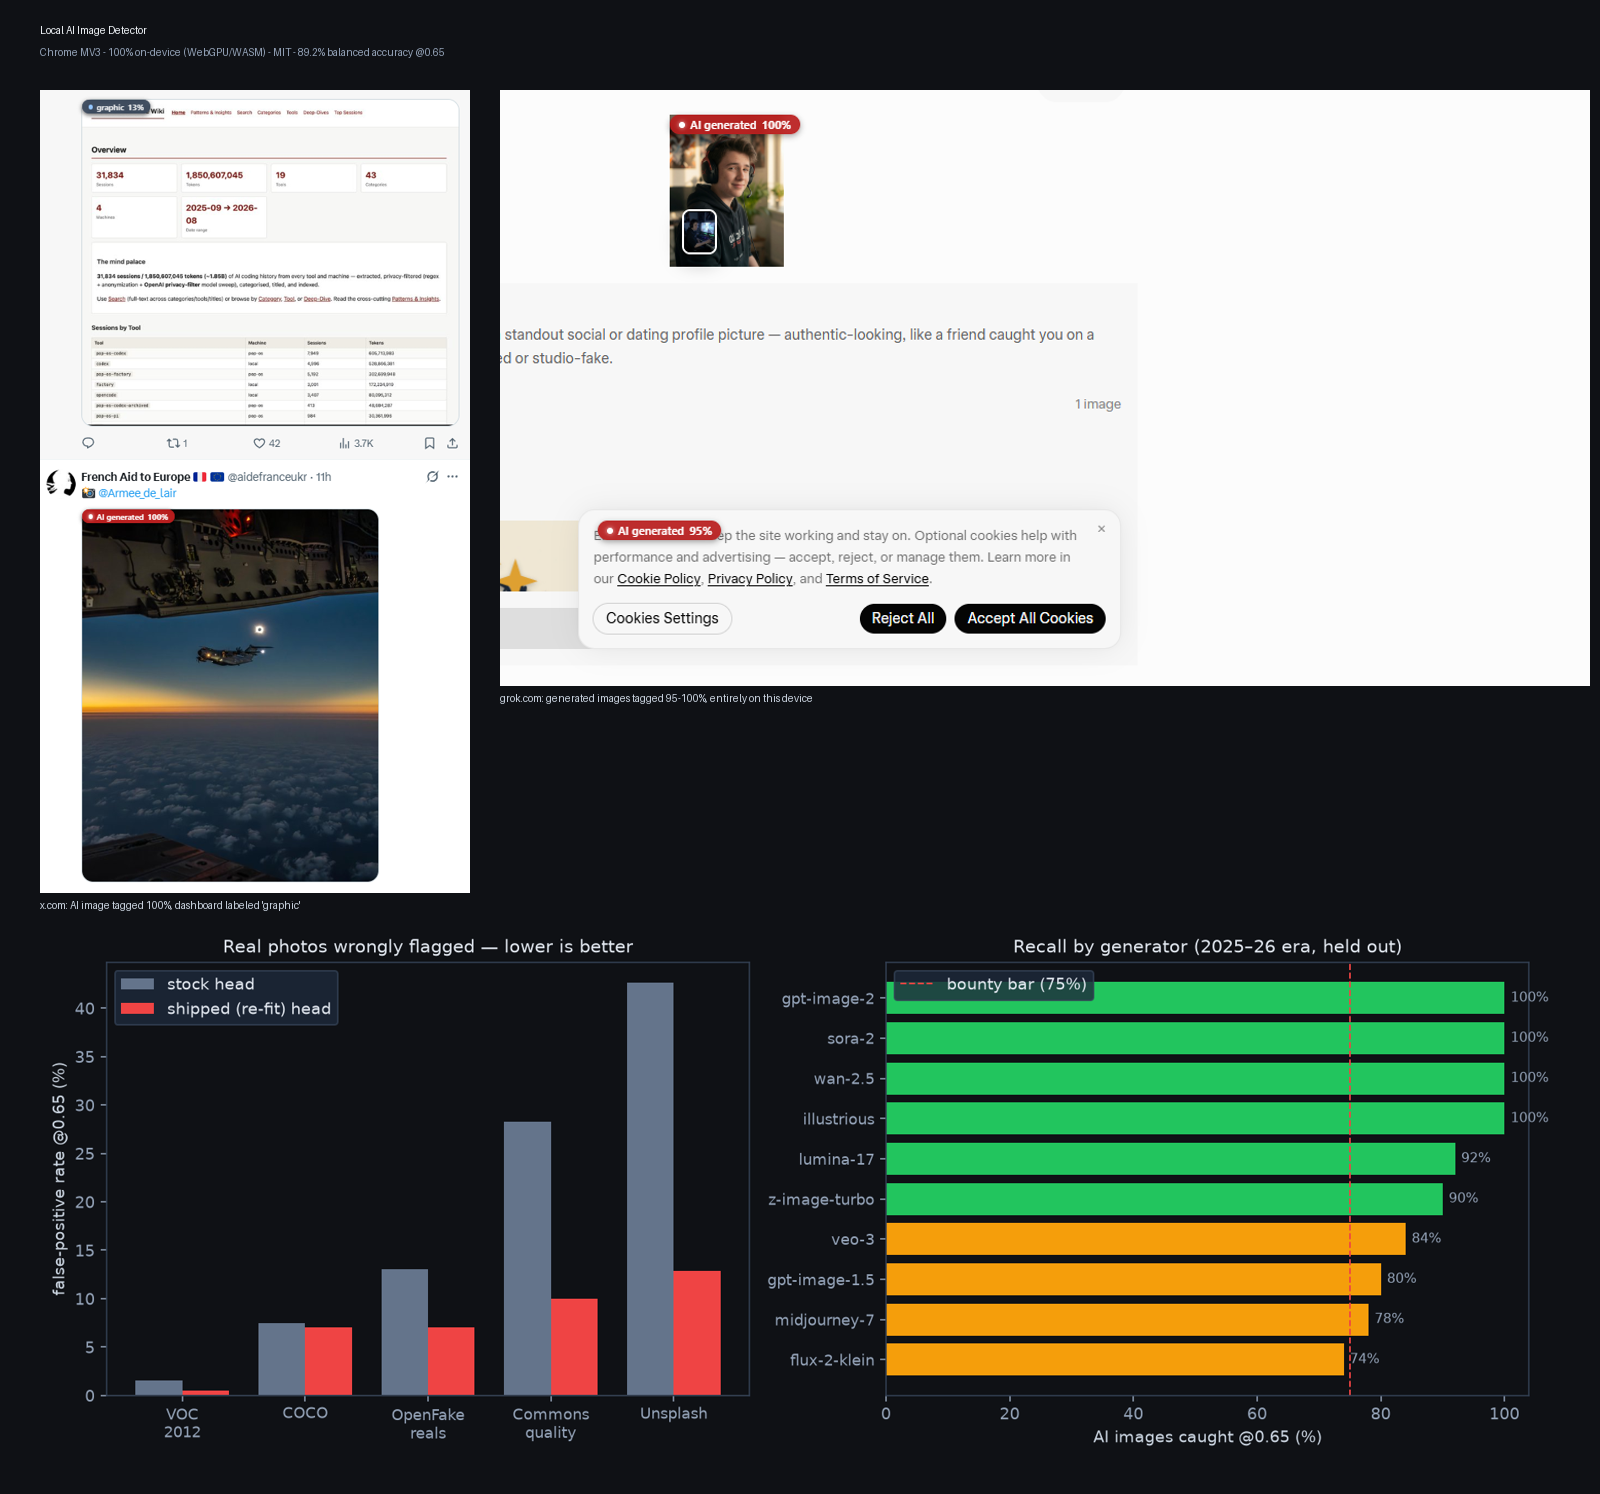
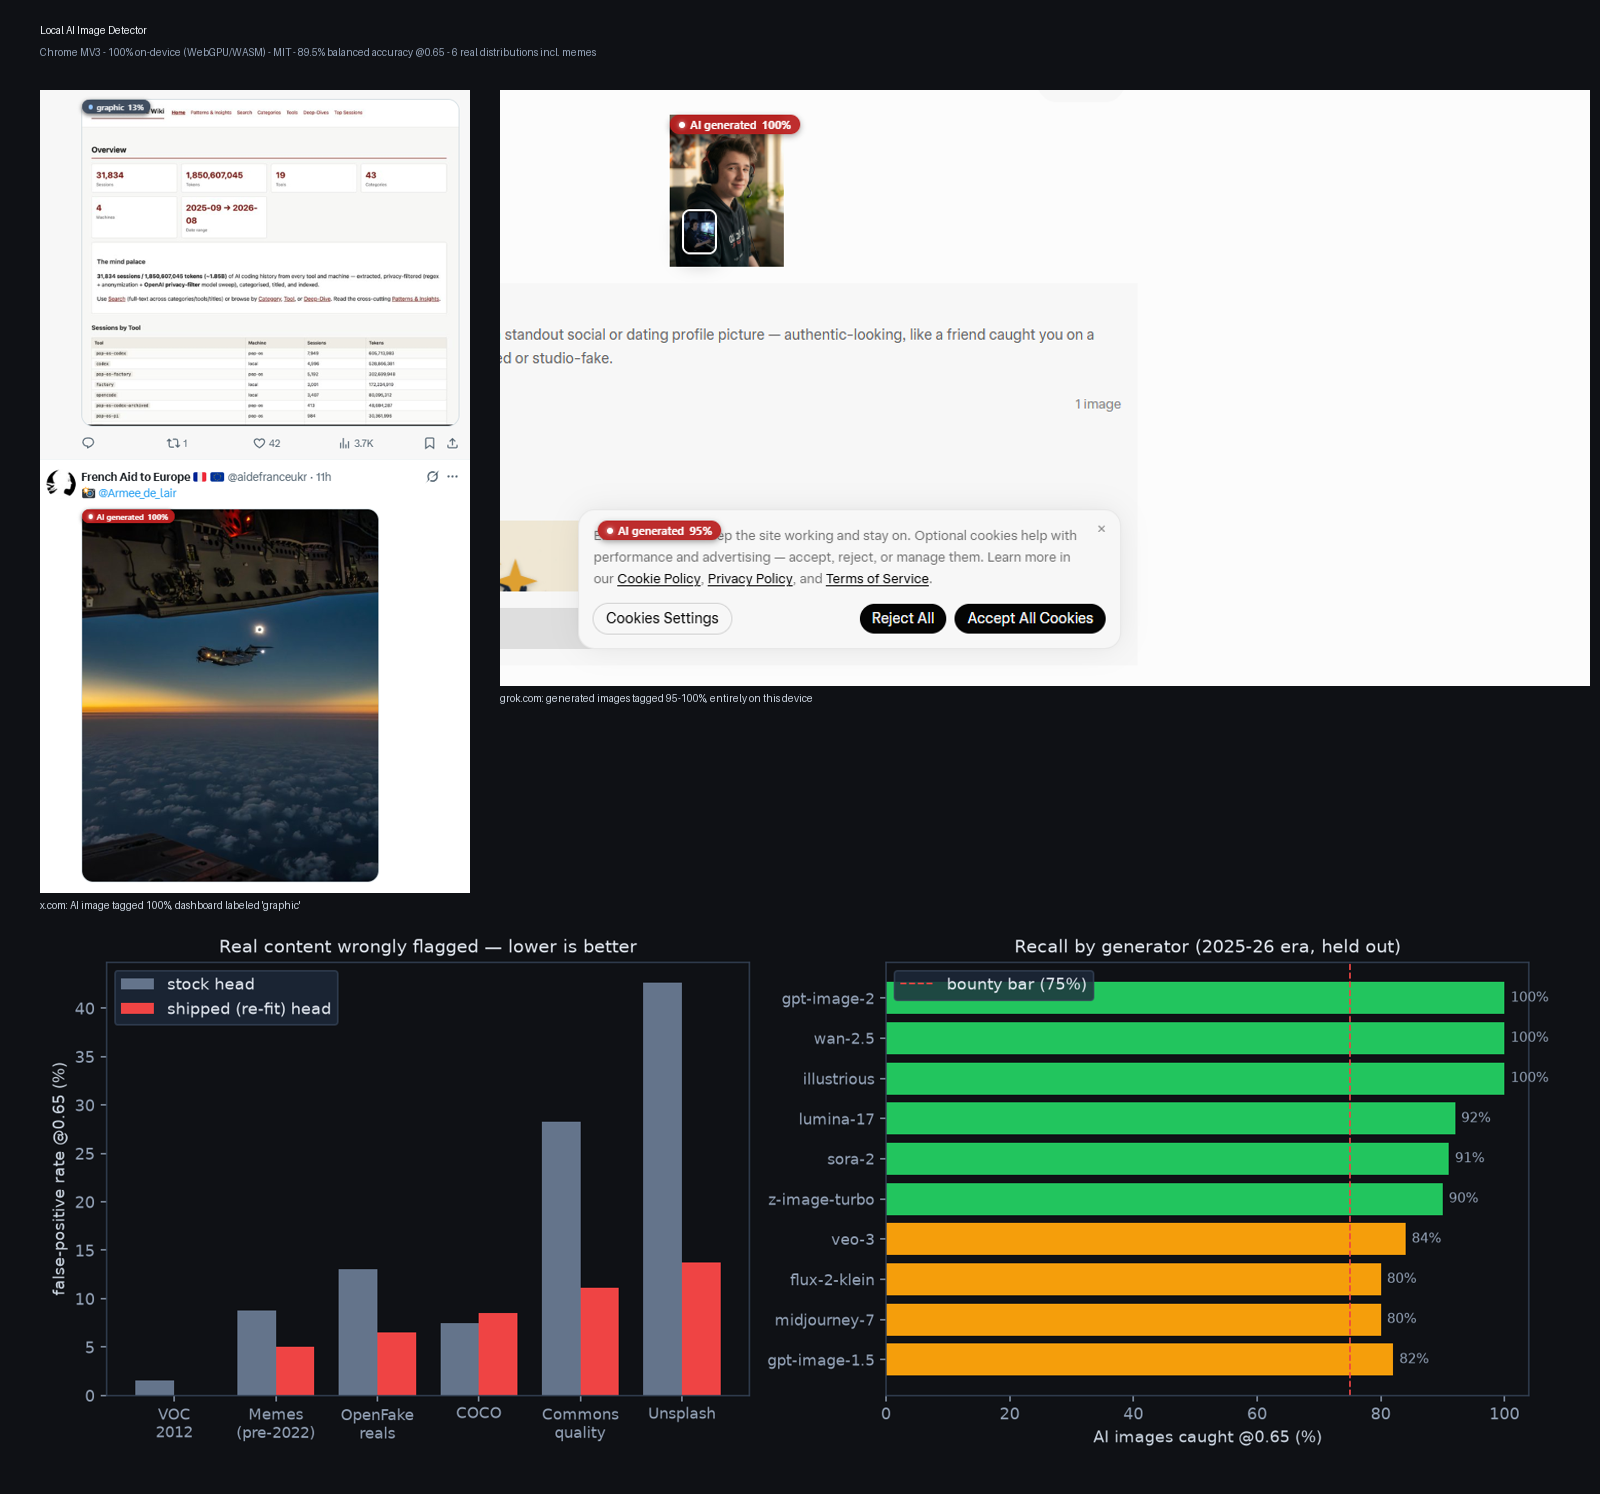
docs: prebuilt release install path; refresh claim card

diff --git a/INSTALL.md b/INSTALL.md
@@ -4,7 +4,17 @@ The extension is a plain unpacked Manifest V3 extension — Brave loads it exact
 Chrome does. Everything it needs (model + ONNX Runtime) is already inside the folder,
 so there's no build step and no network access required at runtime.
 
-## Load it in Brave
+## Easiest path: prebuilt release (no build tools)
+
+1. Download the zip from the repo's **Releases** page and unzip it
+2. Open **`brave://extensions`** (or `chrome://extensions`)
+3. Turn on **Developer mode** (toggle, top-right)
+4. Click **Load unpacked** and select the unzipped `local-ai-image-detector` folder
+5. Click the toolbar icon → switch **Detection** on
+
+That's the whole install. The section below covers loading from a source checkout.
+
+## Load it in Brave (from source checkout)
 
 1. Open **`brave://extensions`** (paste into the address bar — it can't be linked to)
 2. Turn on **Developer mode** (toggle, top-right)

diff --git a/README.md b/README.md
@@ -86,6 +86,13 @@ executed by ONNX Runtime Web — WebGPU when available, single-thread WASM other
 
 ## Install (Chrome or Brave)
 
+**Easiest — prebuilt release (no build tools needed):** download the zip from
+[Releases](https://github.com/pixilated730/local-ai-image-detector/releases), unzip it,
+then `chrome://extensions` → Developer mode → **Load unpacked** → select the unzipped
+`local-ai-image-detector` folder. Done — no Node, no Python, nothing else.
+
+**From source:**
+
 ```bash
 git clone <this repo>
 cd ai-image-detector/extension
